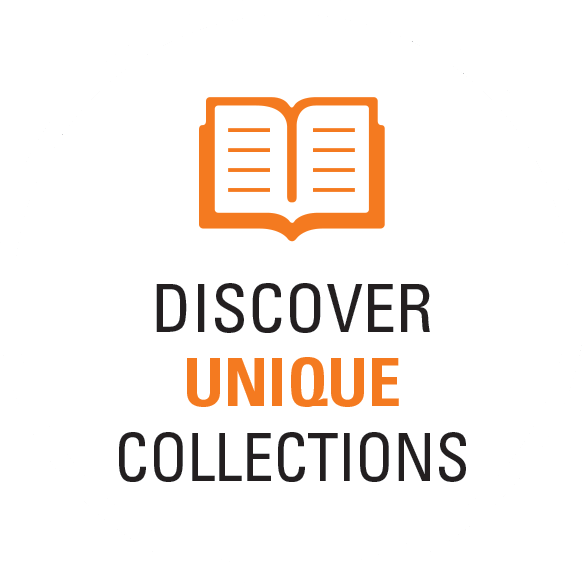
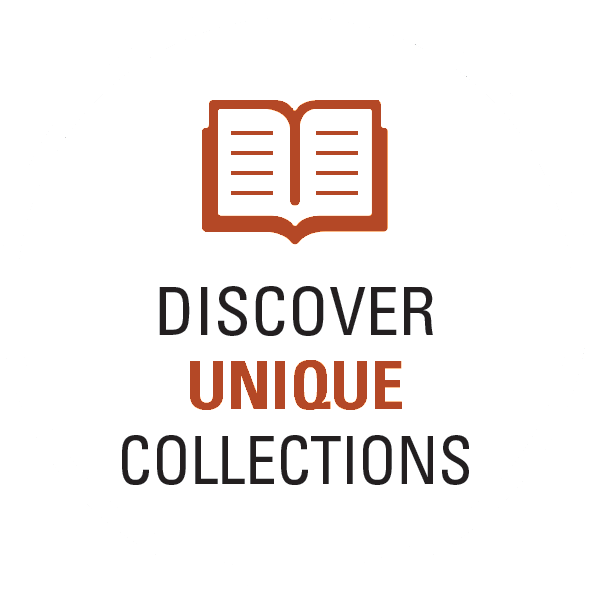
Change orange for readability

Changed region(s): [[0.1856, 0.4631, 0.8041, 0.8336], [0.3402, 0.1544, 0.6804, 0.4322]]

diff --git a/css/style-min.css b/css/style-min.css
@@ -1,1 +1,1 @@
-html{margin:0;padding:0;background-color:#F5F5F5;font-size:14pt;font-family:"Helvetica Neue",Helvetica,Arial,sans-serif;color:#000}body{margin:0;padding:0;background-color:#F5F5F5;max-width:100%}a{color:#000;-webkit-transition:all .5s;transition:all .5s}a:hover{color:#F57920}article table td{padding: .357142857142571em}header{border-top: .2857142857142857em solid #FFB652;background-color:#F57920;margin-top:0;width:100%}iframe{margin-top:10px;height:19.64285714285714em;width:1px;min-width:100%;*width:100%}img{max-width:100%}.aboutMenu{text-align:center;width:100%;display:none;vertical-align:middle}.aboutMenu ul li a{color:#FFF;font-size:1.5em;-webkit-transition: .5s all;transition: .5s all}.aboutMenu ul li a:hover{color:#000;text-decoration:none}.brand-nav{margin-top:.5em;white-space:nowrap}.circleButtons{background-image:url('../images/circle_background.png');background-size:cover;background-position:right center;background-repeat:no-repeat;height:14.5em}.collectionsMenu{text-align:center;width:100%;display:none;vertical-align:middle}.collectionsMenu ul li a{color:#FFF;font-size:1.5em;-webkit-transition: .5s all;transition: .5s all}.collectionsMenu ul li a:hover{color:#000;text-decoration:none}.footer{margin:0;padding:0;padding-top:1.071428571428571em;background-color:#F4F5F5;position:relative;bottom:0;width:100%}.footer a{color:#000;text-decoration:none;-webkit-transition: .5s all;transition: .5s all}.footer a:hover{color:#F57920;text-decoration:none}.footer a:active{color:#000}.footer a:focus{color:#F57920}.footer a:visted{color:#000}.footer ul{list-style:none;padding:0}.footer ul li{list-style:none}.footer1{text-align:left;width:25%}.footer2{width:25%}.footer3{width:25%}.footer4{text-align:right;width:25%}.helpMenu{text-align:center;width:100%;display:none;vertical-align:middle}.helpMenu ul li a{color:#FFF;font-size:1.5em;-webkit-transition: .5s all;transition: .5s all}.helpMenu ul li a:hover{color:#000;text-decoration:none}.hiddenMenu{background-color:#F57920;margin:auto;margin-top:1.428571428571429em;padding-top: .5em;height:100%;display:none;z-index:2}.hiddenMenu ul li{list-style:none;margin:1em;text-align:center;display:inline;white-space:nowrap}.image-block{background-color:#000;border-left: .3571428571428571em solid #FFF;height:14.5em;text-align:center}.image-block img{max-width:100%}.layout-content{margin-top:-35.71428571428571em;z-index:1}.libBackground{background-color:#DEDEDE;height:39.28571428571429em;z-index:-1}.libButtons{padding:0;font-size:1.85em;text-align:left;box-sizing:border-box;color:#FFF}.libButtons a{color:white}.libButtons a:hover{color:white}.libButtons a:visited{color:white}.libButtons .button{height:5.571428571428571em;width:97.5%;margin-right:2px;float:right}.libButtons h2{margin-top: .3076923076923077em;padding-left: .25em;text-shadow:2px 2px #000;position:absolute}.libButtons .button1{background-image:url('../assets/Books.jpg');background-size:100%;margin-bottom:2px}.libButtons .button2{background-image:url('../assets/helios-morning-fog.jpg');background-size:100%;margin-top:2px}.libButtons table{border:none;margin:0;width:99.75%}.libButtons tr td{border-left: .2em solid #FFF;height:5.357142857142857em;vertical-align:middle;border-top: .5em solid #FFF}.libButtons tr:first-child{background-color:#F2D653;color:#000;margin-bottom: .5em}.libButtons tr:nth-child(2){background-color:#BD4F19;color:#FFF}.libSearch{height:293px;border:1px solid #000;background-image:url('../assets/niclib_doors.jpg');background-size:cover;background-position:center center;background-repeat:none;width:74.47%;clear:both;padding:0}.mainContent{height:100%}.mainContent article{width:93%;margin: .7142857142857143em auto}.mainContent .faqfield{background-color:#000}.mainContent h1{text-align:center;font-weight:bold}.mobile-menu{display:none}.mobile-menu button{margin-bottom: .5714285714285714em;background-color:#000;width:40px}.NicLib-Head{margin: .2857142857142857em auto;font-weight:bold;font-size:2em;color:#000;clear:both}.NicLib-Head img{max-width:32.93650793650794%;float:left}.NicLib-Head ul{margin-top:1em;padding-left:15.97005614472863%;background-color:#565656;display:inline;width:100%;box-shadow:0 5px 5px #888}.NicLib-Head ul a{color:#FFF;text-decoration:none;-webkit-transition:all .5s;transition:all .5s}.NicLib-Head ul a:hover{color:#F57920;background:none}.NicLib-Head ul a:focus{background:none}.NicLib-Head ul li{margin:auto 1em;display:inline}.secondaryContent{width:97.5%;margin-left:1.071428571428571em}.secondButtons{margin-top: .3571428571428571em;padding:0;font-size:1.142857142857143em;color:#000;text-align:center;display:inline-block;box-sizing:border-box}.secondButtons a{color:#000;text-decoration:none}.secondButtons a: hover{text-decoration:none}.secondButtons i{font-weight:bold}.secondButtons p{display:inline-block;vertical-align:middle;border-radius:71.42857142857143em;border: .3571428571428571em solid #585858;margin:2.142857142857143em;width:20%;-webkit-transition:all .25s;transition:all .25s;background-color:#FFF;cursor:pointer}.secondButtons p:hover{border-color:#F57920}.secondButtons p strong{color:#F57920}.secondButtons p:first-child{cursor:pointer}.secondButtons p:nth-child(2) img{margin-top:-.2857142857142857em}.servicesMenu{text-align:center;width:100%;display:none;vertical-align:middle}.servicesMenu ul li a{color:#FFF;font-size:1.5em;-webkit-transition: .25s all;transition: .25s all}.servicesMenu ul li a:hover{color:#000;text-decoration:none}.shadow{width:100%;height:1.923076923076923em;background-color:rgba(0,0,0,.25)}.site-content{margin-top:1.785714285714286em;padding: .3571428571428571em;background-color:#FFF;box-shadow:0 10px 15px #888}.small-NicLib-Head{display:none}.univHead{font-weight:bold;color:#FFF;margin-bottom: .375em}.univHead a{color:#FFF;text-decoration:none;-webkit-transition:all .5s;transition:all .5s}.univHead a:hover{color:#000}.univHead img{margin-top:0;float:left}.univHead nav{margin-top: .5em;width:44.6662507797879%;float:right}.univHead ul{text-align:right;list-style:none;display:inline}.univHead nav ul li{margin:auto 1.111111111111111%;list-style:none;display:inline;white-space:nowrap}#hours{font-size:1em;float:left}#hours a{color:#BD4F19}#mobile-nav{background-color:#F57920;color:#FFF;display:none}#mobile-nav a{color:#FFF;text-decoration:none;-webkit-transition:all .5s;transition:all .5s}#mobile-nav a:hover{color:#000}#mobile-nav ul{margin:auto;text-align:center;list-style:none}#mobile-nav ul li{margin:auto 15px;text-align:center;list-style:none;display:inline;white-space:nowrap}@media screen and (max-width: 1454px){.univHead nav{width:49.24346629986245%}}@media screen and (max-width: 1325px){.univHead nav{width:54.0377358490566%}}@media screen and (max-width: 1214px){.univHead nav{width:58.97858319604613%}}@media screen and (min-width: 1200px){.circleButtons{width:70%;margin:1.25em}.image-block{margin:1.25em .3571428571428571em}.libButtons .button{margin: .55em auto}.libSearch{height:317px;width:69.5%;margin:1em 1.5em}}@media screen and (max-width: 1199px){.footer2{display:none}.footer3{width:50%}.image-block{border-left:none}.libSearch{width:97.5%;margin: .3em}.libButtons{margin-top: .5em}.libButtons .button{width:47.75%;margin-left: .3em;float:none;display:inline-block}.libButtons .button1{margin-bottom:0}.libButtons .button2{margin-top:0}.secondButtons{margin-top:.3em;margin: .3em .5em;width:98.25%}.NicLib-Head ul{padding-left:8.34028356964137%}.secondaryContent{width:97.2%}.secondButtons{display:block}.views_slideshow_cycle_teaser_section{left:34%}.univHead nav{width:63.98570151921358%}}@media screen and (max-width: 1037px){.mobile-menu{display:initial;position:static;float:right}.univHead nav{width:3.8572806171649%}.univHead ul{display:none}}@media screen and (max-width: 991px){.image-block{width:98.6%}.libButtons{margin-top: .28557142857142857em;margin-left:-.5%}.libButtons div{width:98.6%;float:none}.libButtons .shadow{width:100%}.libButtons .button{width:97%;height:7.5em}.libButtons .button1{margin-bottom: .28557142857142857em;background-position:0% 20%}.libButtons .button2{background-position:0% 75%}.libButtons table{width:98.61111111111111%}.libButtons tr td{border-left:none}.libSearch{width:97%}.NicLib-Head ul{padding:3px}.NicLib-Head ul li{margin:auto 20px}.secondButtons{width:97.5%;margin-left: .5%}.univHead nave{width:15%;margin-right:1em}.views_slideshow_cycle_teaser_section{left:29%}}@media screen and (max-width: 767px){.footer1{width:100%;text-align:center;margin-bottom:1em}.footer3{width:100%;text-align:center}.footer4{width:100%;text-align:center}#hours{float:none}.libButtons{margin-left: .3%}.libButtons div{width:100%}.libButtons .button{width:98.75%;margin-left: .3%}.libSearch{width:98.75%}.mobile-menu{margin-left:2.142857142857143em;float:none}.NicLib-Head{display:none}.small-NicLib-Head{font-size:1.714285714285714em;display:initial}.small-univHead{display:none}.univHead span{display:none}}@media screen and (max-width: 717px){.circleButtons{background-size:cover;background-position:50% 0%;height:100%}.secondButtons p{padding:2.142857142857143em;width:40%;margin:1.428571428571429em}.secondButtons p:nth-child(2){padding-top:1.428571428571429em}}@media screen and (max-width: 685px){.secondButtons{width:98%}.views_slideshow_cycle_teaser_section{left:27%}}@media screen and (max-width: 608px){.secondButtons{width:97.6%}.views_slideshow_cycle_teaser_section{left:24%}}@media screen and (max-width: 566px){.secondButtons{width:97%}}@media screen and (max-width: 556px){.libButtons{margin-left: .4%}}@media screen and (max-width: 534px){.secondButtons p{width:60%}}@media screen and (max-width: 522px){.mobile-menu{margin-left:1em}.secondButtons{width:96.6%}.univHead img{width:50%}.views_slideshow_cycle_teaser_section{left:21%}}@media screen and (max-width: 488px){.secondButtons{width:96%}.views_slideshow_cycle_teaser_section{left:16%}}@media screen and (max-width: 472px){.brand-nav{padding:0;float:left}.mobile-menu{margin-top:-1.928571428571429em;margin-right:-1.7142857142857143em;padding-right:0;float:right}}@media screen and (max-width: 444px){.secondButtons{width:95.6%}.views_slideshow_cycle_teaser_section{left:15%}}@media screen and (max-width: 436px){.libSearch{width:98%}}@media screen and (max-width: 431px){.libButtons{margin-left: .5%}}@media screen and (max-width: 420px){.views_slideshow_cycle_teaser_section{left:12%}}@media screen and (max-width: 416px){.secondButtons{width:95%}.views_slideshow_cycle_teaser_section{left:10%}}@media screen and (max-width: 385px){.footer1{text-align:center;display:block;width:100%}.footer4{text-align:center;display:block}.secondButtons{width:94.6%}.secondButtons p{width:75%}.views_slideshow_cycle_teaser_section{left:8%}}@media screen and (max-width: 370px){.libButtons .button{height:6em}.secondButtons{width:94%}.secondButtons p{margin:1em}.views_slideshow_cycle_teaser_section{left:5%}}@media screen and (max-width: 357px){.views_slideshow_cycle_teaser_section{left:3.5%}}@media screen and (max-width: 356px){.libButtons{margin-left: .6%}}@media screen and (max-width: 347px){.secondButtons{width:93.6%}.views_slideshow_cycle_teaser_section{left:1.75%}}@media screen and (max-width: 324px){.mobile-menu{margin-right:-1em}.secondButtons{width:93%}.views_slideshow_cycle_teaser_section{left:0}}@media screen and (max-width: 310px){.libSearch{height:315px}.secondButtons{width:92%}.secondButtons p{margin: .7142857142857143em}}
+html{margin:0;padding:0;background-color:#F5F5F5;font-size:14pt;font-family:"Helvetica Neue",Helvetica,Arial,sans-serif;color:#000}body{margin:0;padding:0;background-color:#F5F5F5;max-width:100%}a{color:#000;-webkit-transition:all .5s;transition:all .5s}a:hover{color:#B44723}article table td{padding: .357142857142571em}header{border-top: .2857142857142857em solid #595959;background-color:#B44723;margin-top:0;width:100%}iframe{margin-top:10px;height:19.64285714285714em;width:1px;min-width:100%;*width:100%}img{max-width:100%}.aboutMenu{text-align:center;width:100%;display:none;vertical-align:middle}.aboutMenu ul li a{color:#FFF;font-size:1.5em;-webkit-transition: .5s all;transition: .5s all}.aboutMenu ul li a:hover{color:#000;text-decoration:none}.brand-nav{margin-top:.5em;white-space:nowrap}.circleButtons{background-image:url('../images/circle_background.png');background-size:cover;background-position:right center;background-repeat:no-repeat;height:14.5em}.collectionsMenu{text-align:center;width:100%;display:none;vertical-align:middle}.collectionsMenu ul li a{color:#FFF;font-size:1.5em;-webkit-transition: .5s all;transition: .5s all}.collectionsMenu ul li a:hover{color:#000;text-decoration:none}.footer{margin:0;padding:0;padding-top:1.071428571428571em;background-color:#F4F5F5;position:relative;bottom:0;width:100%}.footer a{color:#000;text-decoration:none;-webkit-transition: .5s all;transition: .5s all}.footer a:hover{color:#B44723;text-decoration:none}.footer a:active{color:#000}.footer a:focus{color:#B44723}.footer a:visted{color:#000}.footer ul{list-style:none;padding:0}.footer ul li{list-style:none}.footer1{text-align:left;width:25%}.footer2{width:25%}.footer3{width:25%}.footer4{text-align:right;width:25%}.helpMenu{text-align:center;width:100%;display:none;vertical-align:middle}.helpMenu ul li a{color:#FFF;font-size:1.5em;-webkit-transition: .5s all;transition: .5s all}.helpMenu ul li a:hover{color:#000;text-decoration:none}.hiddenMenu{background-color:#B44723;margin:auto;margin-top:1.428571428571429em;padding-top: .5em;height:100%;display:none;z-index:2}.hiddenMenu ul li{list-style:none;margin:1em;text-align:center;display:inline;white-space:nowrap}.image-block{background-color:#000;border-left: .3571428571428571em solid #FFF;height:14.5em;text-align:center}.image-block img{max-width:100%}.layout-content{margin-top:-35.71428571428571em;z-index:1}.libBackground{background-color:#DEDEDE;height:39.28571428571429em;z-index:-1}.libButtons{padding:0;font-size:1.85em;text-align:left;box-sizing:border-box;color:#FFF}.libButtons a{color:white}.libButtons a:hover{color:white}.libButtons a:visited{color:white}.libButtons .button{height:5.571428571428571em;width:97.5%;margin-right:2px;float:right}.libButtons h2{margin-top: .3076923076923077em;padding-left: .25em;text-shadow:2px 2px #000;position:absolute}.libButtons .button1{background-image:url('../assets/Books.jpg');background-size:100%;margin-bottom:2px}.libButtons .button2{background-image:url('../assets/helios-morning-fog.jpg');background-size:100%;margin-top:2px}.libButtons table{border:none;margin:0;width:99.75%}.libButtons tr td{border-left: .2em solid #FFF;height:5.357142857142857em;vertical-align:middle;border-top: .5em solid #FFF}.libButtons tr:first-child{background-color:#F2D653;color:#000;margin-bottom: .5em}.libButtons tr:nth-child(2){background-color:#BD4F19;color:#FFF}.libSearch{height:293px;border:1px solid #000;background-image:url('../assets/niclib_doors.jpg');background-size:cover;background-position:center center;background-repeat:none;width:74.47%;clear:both;padding:0}.mainContent{height:100%}.mainContent article{width:93%;margin: .7142857142857143em auto}.mainContent .faqfield{background-color:#000}.mainContent h1{text-align:center;font-weight:bold}.mainContent2{width:95%;margin:auto}.mainContent2 ol li h3 a{text-decoration:underline}.mobile-menu{display:none}.mobile-menu button{margin-bottom: .5714285714285714em;background-color:#000;width:40px}.NicLib-Head{margin: .2857142857142857em auto;font-weight:bold;font-size:2em;color:#000;clear:both}.NicLib-Head img{max-width:32.93650793650794%;float:left}.NicLib-Head ul{margin-top:1em;padding-left:15.97005614472863%;background-color:#595959;display:inline;width:100%;box-shadow:0 5px 5px #888}.NicLib-Head ul a{color:#FFF;text-decoration:none;-webkit-transition:all .5s;transition:all .5s}.NicLib-Head ul a:hover{color:#B44723;background:none}.NicLib-Head ul a:focus{background:none}.NicLib-Head ul li{margin:auto 1em;display:inline}.secondaryContent{width:97.5%;margin-left:1.071428571428571em}.secondButtons{margin-top: .3571428571428571em;padding:0;font-size:1.142857142857143em;color:#000;text-align:center;display:inline-block;box-sizing:border-box}.secondButtons a{color:#000;text-decoration:none}.secondButtons a: hover{text-decoration:none}.secondButtons i{font-weight:bold}.secondButtons p{display:inline-block;vertical-align:middle;border-radius:71.42857142857143em;border: .3571428571428571em solid #595959;margin:2.142857142857143em;width:20%;-webkit-transition:all .25s;transition:all .25s;background-color:#FFF;cursor:pointer}.secondButtons p:hover{border-color:#B44723}.secondButtons p strong{color:#B44723}.secondButtons p:first-child{cursor:pointer}.secondButtons p:nth-child(2) img{margin-top:-.2857142857142857em}.servicesMenu{text-align:center;width:100%;display:none;vertical-align:middle}.servicesMenu ul li a{color:#FFF;font-size:1.5em;-webkit-transition: .25s all;transition: .25s all}.servicesMenu ul li a:hover{color:#000;text-decoration:none}.shadow{width:100%;height:1.923076923076923em;background-color:rgba(0,0,0,.25)}.site-content{margin-top:1.785714285714286em;padding: .3571428571428571em;background-color:#FFF;box-shadow:0 10px 15px #888}.small-NicLib-Head{display:none}.univHead{font-weight:bold;color:#FFF;margin-bottom: .375em}.univHead a{color:#FFF;text-decoration:none;-webkit-transition:all .5s;transition:all .5s}.univHead a:hover{color:#000}.univHead img{margin-top:0;float:left}.univHead nav{margin-top: .5em;width:44.6662507797879%;float:right}.univHead ul{text-align:right;list-style:none;display:inline}.univHead nav ul li{margin:auto 1.111111111111111%;list-style:none;display:inline;white-space:nowrap}#hours{font-size:1em;float:left}#hours a{color:#BD4F19}#mobile-nav{background-color:#B44723;color:#FFF;display:none}#mobile-nav a{color:#FFF;text-decoration:none;-webkit-transition:all .5s;transition:all .5s}#mobile-nav a:hover{color:#000}#mobile-nav ul{margin:auto;text-align:center;list-style:none}#mobile-nav ul li{margin:auto 15px;text-align:center;list-style:none;display:inline;white-space:nowrap}@media screen and (max-width: 1454px){.univHead nav{width:49.24346629986245%}}@media screen and (max-width: 1325px){.univHead nav{width:54.0377358490566%}}@media screen and (max-width: 1214px){.univHead nav{width:58.97858319604613%}}@media screen and (min-width: 1200px){.circleButtons{width:70%;margin:1.25em}.image-block{margin:1.25em .3571428571428571em}.libButtons .button{margin: .55em auto}.libSearch{height:317px;width:69.5%;margin:1em 1.5em}}@media screen and (max-width: 1199px){.footer2{display:none}.footer3{width:50%}.image-block{border-left:none}.libSearch{width:97.5%;margin: .3em}.libButtons{margin-top: .5em}.libButtons .button{width:47.75%;margin-left: .3em;float:none;display:inline-block}.libButtons .button1{margin-bottom:0}.libButtons .button2{margin-top:0}.secondButtons{margin-top:.3em;margin: .3em .5em;width:98.25%}.NicLib-Head ul{padding-left:8.34028356964137%}.secondaryContent{width:97.2%}.secondButtons{display:block}.views_slideshow_cycle_teaser_section{left:34%}.univHead nav{width:63.98570151921358%}}@media screen and (max-width: 1037px){.mobile-menu{display:initial;position:static;float:right}.univHead nav{width:3.8572806171649%}.univHead ul{display:none}}@media screen and (max-width: 991px){.image-block{width:98.6%}.libButtons{margin-top: .28557142857142857em;margin-left:-.5%}.libButtons div{width:98.6%;float:none}.libButtons .shadow{width:100%}.libButtons .button{width:97%;height:7.5em}.libButtons .button1{margin-bottom: .28557142857142857em;background-position:0% 20%}.libButtons .button2{background-position:0% 75%}.libButtons table{width:98.61111111111111%}.libButtons tr td{border-left:none}.libSearch{width:97%}.NicLib-Head ul{padding:3px}.NicLib-Head ul li{margin:auto 20px}.secondButtons{width:97.5%;margin-left: .5%}.univHead nave{width:15%;margin-right:1em}.views_slideshow_cycle_teaser_section{left:29%}}@media screen and (max-width: 767px){.footer1{width:100%;text-align:center;margin-bottom:1em}.footer3{width:100%;text-align:center}.footer4{width:100%;text-align:center}#hours{float:none}.libButtons{margin-left: .3%}.libButtons div{width:100%}.libButtons .button{width:98.75%;margin-left: .3%}.libSearch{width:98.75%}.mobile-menu{margin-left:2.142857142857143em;float:none}.NicLib-Head{display:none}.small-NicLib-Head{font-size:1.714285714285714em;display:initial}.small-univHead{display:none}.univHead span{display:none}}@media screen and (max-width: 717px){.circleButtons{background-size:cover;background-position:50% 0%;height:100%}.secondButtons p{padding:2.142857142857143em;width:40%;margin:1.428571428571429em}.secondButtons p:nth-child(2){padding-top:1.428571428571429em}}@media screen and (max-width: 685px){.secondButtons{width:98%}.views_slideshow_cycle_teaser_section{left:27%}}@media screen and (max-width: 608px){.secondButtons{width:97.6%}.views_slideshow_cycle_teaser_section{left:24%}}@media screen and (max-width: 566px){.secondButtons{width:97%}}@media screen and (max-width: 556px){.libButtons{margin-left: .4%}}@media screen and (max-width: 534px){.secondButtons p{width:60%}}@media screen and (max-width: 522px){.mobile-menu{margin-left:1em}.secondButtons{width:96.6%}.univHead img{width:50%}.views_slideshow_cycle_teaser_section{left:21%}}@media screen and (max-width: 488px){.secondButtons{width:96%}.views_slideshow_cycle_teaser_section{left:16%}}@media screen and (max-width: 472px){.brand-nav{padding:0;float:left}.mobile-menu{margin-top:-1.928571428571429em;margin-right:-1.7142857142857143em;padding-right:0;float:right}}@media screen and (max-width: 444px){.secondButtons{width:95.6%}.views_slideshow_cycle_teaser_section{left:15%}}@media screen and (max-width: 436px){.libSearch{width:98%}}@media screen and (max-width: 431px){.libButtons{margin-left: .5%}}@media screen and (max-width: 420px){.views_slideshow_cycle_teaser_section{left:12%}}@media screen and (max-width: 416px){.secondButtons{width:95%}.views_slideshow_cycle_teaser_section{left:10%}}@media screen and (max-width: 385px){.footer1{text-align:center;display:block;width:100%}.footer4{text-align:center;display:block}.secondButtons{width:94.6%}.secondButtons p{width:75%}.views_slideshow_cycle_teaser_section{left:8%}}@media screen and (max-width: 370px){.libButtons .button{height:6em}.secondButtons{width:94%}.secondButtons p{margin:1em}.views_slideshow_cycle_teaser_section{left:5%}}@media screen and (max-width: 357px){.views_slideshow_cycle_teaser_section{left:3.5%}}@media screen and (max-width: 356px){.libButtons{margin-left: .6%}}@media screen and (max-width: 347px){.secondButtons{width:93.6%}.views_slideshow_cycle_teaser_section{left:1.75%}}@media screen and (max-width: 324px){.mobile-menu{margin-right:-1em}.secondButtons{width:93%}.views_slideshow_cycle_teaser_section{left:0}}@media screen and (max-width: 310px){.libSearch{height:315px}.secondButtons{width:92%}.secondButtons p{margin: .7142857142857143em}}

diff --git a/css/search-min.css b/css/search-min.css
@@ -1,1 +1,1 @@
-#search-wrapper{text-align:center;position:relative;max-width:100%;margin:auto;width:100%;height:100%;font-family:"Source Sans Pro","Myriad Pro","Helvetica Neue",Helvetica,Arial,sans-serif;letter-spacing:0.02rem;text-shadow:1px 1px #000;background-color:rgba(0,0,0,.4);color:#000;padding:0 1.071428571428571em}.tabs{-webkit-box-sizing:border-box;-moz-box-sizing:border-box;box-sizing:border-box;display:inline-block;width:100%;margin:2.142857142857143em auto;padding:0px auto;text-align:center;height:92px;top:0;vertical-align:middle;color:#FFF}.tab-links:after{display:block;clear:both;content:''}.tab-links h2{margin:0px 5px;list-style:none;display:inline-block;text-decoration:none;color:#FFF}.tab-links a{padding:9px 15px;display:inline-block;border-radius:3px 3px 0px 0px;font-size:16px;font-weight:600;transition:all linear 0.15s;text-decoration:none;color:rgb(0, 0, 0)}.tab-links a.selected h2{color:#F57920}.tab-links h2{font-size:2.4em}.tab-label{font-size:16px;text-decoration:none;margin:5px 0;font-family:"Source Sans Pro","Myriad Pro","Helvetica Neue",Helvetica,Arial,sans-serif;color:#FFF}.tab-content{border-radius:3px;text-align:center;margin-top:50px}.tab{display:none}.tab.active{display:block}.searchTerm{position:relative}.searchTerm input{color:#000}#search h3{font-size:13pt;width:95%;margin:5px auto;text-align:left;font-family:sans-serif;font-weight:bold}input.searchbox{display:inline;-webkit-appearance:none;vertical-align:middle;-webkit-box-sizing:border-box;-moz-box-sizing:border-box;box-sizing:border-box;height:40px;width:70%;padding-left: .6rem;padding-right:8px;font-size:16px;font-size:1.6rem;margin:10px auto;border:0;outline:2px solid #F57920;float:left}button.headersubmit{display:inline;-webkit-appearance:none;height:40px;width:44px;margin-top:10px;padding:0;border:0;background-color:#F57920;color:#fff;font-size:2.2em;font-family:'FontAwesome',sans-serif;cursor:pointer;-webkit-border-radius:0;-moz-border-radius:0;border-radius:0;float:right}select.dropdown-menu{display:inline;-webkit-appearance:none;vertical-align:middle;-webkit-box-sizing:border-box;-moz-box-sizing:border-box;box-sizing:border-box;width:20%;background-color:#FFF;padding:5px;font-size:14px;border:2px solid #F57920;border-radius:0;height:40px;margin:10px;margin-left:591px;cursor:pointer;font-family:"Source Sans Pro","Myriad Pro","Helvetica Neue",Helvetica,Arial,sans-serif;color:#000}a#advanced-search{float:right;line-height:0;color:#000;text-decoration:underline;font-weight:bold;font-size:11pt;text-align:right;font-family:sans-serif}.tab-links{margin-top:-1em}#realquery{font-size:12pt}.windowForm{margin-bottom:0}@media screen and (min-width: 1200px){select.dropdown-menu{margin-left:546px}}@media screen and (max-width: 1199px){select.dropdown-menu{margin-left:640px}input.searchbox{width:69%}}@media screen and (max-width: 991px){select.dropdown-menu{display:none}input.searchbox{width:90%}}@media screen and (max-width: 583px){.tab-content table{display:none}}@media screen and (max-width: 540px){input.searchbox{width:87%}}@media screen and (max-width: 494px){.tab-links h2{margin:0}}@media screen and (max-width: 487px){input.searchbox{width:80%}.tab-links{font-size:0em;margin-left:-2px}.tab-links h2{margin:0}.tab-content p{display:none}}@media screen and (max-width: 441px){.tab-links a{padding:9px 10px}}@media screen and (max-width: 436px){.tab-links h2{margin:-5px}input.searchbox{width:83%}}@media screen and (max-width: 395px){.tab-links h2{margin:-8px}}@media screen and (max-width: 353px){input.searchbox{width:80%}}@media screen and (max-width: 335px){.tab-content{margin-top:-8px}}@media screen and (max-width: 314px){input.searchbox{width:75%}}
+#search-wrapper{text-align:center;position:relative;max-width:100%;margin:auto;width:100%;height:100%;font-family:"Source Sans Pro","Myriad Pro","Helvetica Neue",Helvetica,Arial,sans-serif;letter-spacing:0.02rem;text-shadow:1px 1px #000;background-color:rgba(0,0,0,.4);color:#000;padding:0 1.071428571428571em}.tabs{-webkit-box-sizing:border-box;-moz-box-sizing:border-box;box-sizing:border-box;display:inline-block;width:100%;margin:2.142857142857143em auto;padding:0px auto;text-align:center;height:92px;top:0;vertical-align:middle;color:#FFF}.tab-links:after{display:block;clear:both;content:''}.tab-links h2{margin:0px 5px;list-style:none;display:inline-block;text-decoration:none;color:#FFF}.tab-links a{padding:9px 15px;display:inline-block;border-radius:3px 3px 0px 0px;font-size:16px;font-weight:600;transition:all linear 0.15s;text-decoration:none;color:rgb(0, 0, 0)}.tab-links a.selected h2{color:#B44723}.tab-links h2{font-size:2.4em}.tab-label{font-size:16px;text-decoration:none;margin:5px 0;font-family:"Source Sans Pro","Myriad Pro","Helvetica Neue",Helvetica,Arial,sans-serif;color:#FFF}.tab-content{border-radius:3px;text-align:center;margin-top:50px}.tab{display:none}.tab.active{display:block}.searchTerm{position:relative}.searchTerm input{color:#000}#search h3{font-size:13pt;width:95%;margin:5px auto;text-align:left;font-family:sans-serif;font-weight:bold}input.searchbox{display:inline;-webkit-appearance:none;vertical-align:middle;-webkit-box-sizing:border-box;-moz-box-sizing:border-box;box-sizing:border-box;height:40px;width:70%;padding-left: .6rem;padding-right:8px;font-size:16px;font-size:1.6rem;margin:10px auto;border:0;outline:2px solid #B44723;float:left}button.headersubmit{display:inline;-webkit-appearance:none;height:40px;width:44px;margin-top:10px;padding:0;border:0;background-color:#B44723;color:#fff;font-size:2.2em;font-family:'FontAwesome',sans-serif;cursor:pointer;-webkit-border-radius:0;-moz-border-radius:0;border-radius:0;float:right}select.dropdown-menu{display:inline;-webkit-appearance:none;vertical-align:middle;-webkit-box-sizing:border-box;-moz-box-sizing:border-box;box-sizing:border-box;width:20%;background-color:#FFF;padding:5px;font-size:14px;border:2px solid #B44723;border-radius:0;height:40px;margin:10px;margin-left:591px;cursor:pointer;font-family:"Source Sans Pro","Myriad Pro","Helvetica Neue",Helvetica,Arial,sans-serif;color:#000}a#advanced-search{float:right;line-height:0;color:#000;text-decoration:underline;font-weight:bold;font-size:11pt;text-align:right;font-family:sans-serif}.tab-links{margin-top:-1em}#realquery{font-size:12pt}.windowForm{margin-bottom:0}@media screen and (min-width: 1200px){select.dropdown-menu{margin-left:546px}}@media screen and (max-width: 1199px){select.dropdown-menu{margin-left:640px}input.searchbox{width:69%}}@media screen and (max-width: 991px){select.dropdown-menu{display:none}input.searchbox{width:90%}}@media screen and (max-width: 583px){.tab-content table{display:none}}@media screen and (max-width: 540px){input.searchbox{width:87%}}@media screen and (max-width: 494px){.tab-links h2{margin:0}}@media screen and (max-width: 487px){input.searchbox{width:80%}.tab-links{font-size:0em;margin-left:-2px}.tab-links h2{margin:0}.tab-content p{display:none}}@media screen and (max-width: 441px){.tab-links a{padding:9px 10px}}@media screen and (max-width: 436px){.tab-links h2{margin:-5px}input.searchbox{width:83%}}@media screen and (max-width: 395px){.tab-links h2{margin:-8px}}@media screen and (max-width: 353px){input.searchbox{width:80%}}@media screen and (max-width: 335px){.tab-content{margin-top:-8px}}@media screen and (max-width: 314px){input.searchbox{width:75%}}

diff --git a/css/style.css b/css/style.css
@@ -21,7 +21,7 @@ a {
 }
 
 a:hover{
-	color: #F57920;
+	color: #B44723;
 }
 
 article table td {
@@ -29,8 +29,8 @@ article table td {
 }
 
 header{
-	border-top: .2857142857142857em /* 4/14 */ solid #FFB652;
-	background-color: #F57920;
+	border-top: .2857142857142857em /* 4/14 */ solid #595959;
+	background-color: #B44723;
 	margin-top: 0;
  	width: 100%;
 }
@@ -118,7 +118,7 @@ img{
 }
 
 .footer a:hover{
-	color: #F57920;
+	color: #B44723;
 	text-decoration: none;
 }
 
@@ -127,7 +127,7 @@ img{
 }
 
 .footer a:focus{
-	color: #F57920;
+	color: #B44723;
 }
 
 .footer a:visted{
@@ -181,7 +181,7 @@ img{
 }
 
 .hiddenMenu{
-	background-color: #F57920;
+	background-color: #B44723;
 	margin: auto;
 	margin-top: 1.428571428571429em; /* 20/14 */
 	padding-top: .5em;
@@ -358,7 +358,7 @@ img{
 	margin-top: 1em;
 	/* Padding when FYE QR Code is inactive */
 	padding-left: 15.97005614472863%; /* 256/1603 */
-	background-color: #565656;
+	background-color: #595959;
 	display: inline;
 	width: 100%;
 	box-shadow: 0 5px 5px #888888;
@@ -372,7 +372,7 @@ img{
 }
  
 .NicLib-Head ul a:hover{
-	color: #F57920;
+	color: #B44723;
 	background: none;
 }
 
@@ -418,7 +418,7 @@ img{
 	display: inline-block;
 	vertical-align: middle;
 	border-radius: 71.42857142857143em;
-	border: .3571428571428571em /* 5/14 */ solid #585858;
+	border: .3571428571428571em /* 5/14 */ solid #595959;
 	margin: 2.142857142857143em; /* 30/14 */
 	width: 20%;
 	-webkit-transition: all .25s;
@@ -428,11 +428,11 @@ img{
 }
 
 .secondButtons p:hover{
-	border-color: #F57920;
+	border-color: #B44723;
 }
 
 .secondButtons p strong{
-	color: #F57920;
+	color: #B44723;
 }
 
 .secondButtons p:first-child{
@@ -539,7 +539,7 @@ img{
 }
 
 #mobile-nav{
-	background-color: #F57920;
+	background-color: #B44723;
 	color: #FFFFFF;
 	display: none;
 }

diff --git a/assets/theme.css b/assets/theme.css
@@ -52,7 +52,7 @@
 .ui-widget-content .ui-state-default,
 .ui-widget-header .ui-state-default {
 	border: 1px solid #d3d3d3/*{borderColorDefault}*/;
-	background: #F59720;/*{bgColorDefault}*/ /*url("images/ui-bg_glass_75_e6e6e6_1x400.png")/*{bgImgUrlDefault}*/ 50%/*{bgDefaultXPos}*/ 50%/*{bgDefaultYPos}*/ repeat-x/*{bgDefaultRepeat}*/;
+	background: #B44723;/*{bgColorDefault}*/ /*url("images/ui-bg_glass_75_e6e6e6_1x400.png")/*{bgImgUrlDefault}*/ 50%/*{bgDefaultXPos}*/ 50%/*{bgDefaultYPos}*/ repeat-x/*{bgDefaultRepeat}*/;
 	font-weight: bold;
 	color: #FFFFFF/*{fcDefault}*/;
 }
@@ -88,7 +88,7 @@
 .ui-widget-content .ui-state-active,
 .ui-widget-header .ui-state-active {
 	border: 1px solid #aaaaaa/*{borderColorActive}*/;
-	background: #F59720/*{bgColorActive}*/ /*url("images/ui-bg_glass_65_ffffff_1x400.png")/*{bgImgUrlActive}*/ 50%/*{bgActiveXPos}*/ 50%/*{bgActiveYPos}*/ repeat-x/*{bgActiveRepeat}*/;
+	background: #B44723/*{bgColorActive}*/ /*url("images/ui-bg_glass_65_ffffff_1x400.png")/*{bgImgUrlActive}*/ 50%/*{bgActiveXPos}*/ 50%/*{bgActiveYPos}*/ repeat-x/*{bgActiveRepeat}*/;
 	font-weight: normal/*{fwDefault}*/;
 	color: #FFFFFF/*{fcActive}*/;
 }

diff --git a/css/search.css b/css/search.css
@@ -59,7 +59,7 @@
 		}
 	
 		.tab-links a.selected h2 {
-		   color: #F57920; /*same as the buttons*/
+		   color: #B44723; /*same as the buttons*/
 		}
 		
         .tab-links h2 {
@@ -122,7 +122,7 @@
 			font-size: 1.6rem;
 			margin: 10px auto;
 			border: 0;
-			outline: 2px solid #F57920;
+			outline: 2px solid #B44723;
 			float:left;
 		}
     
@@ -135,7 +135,7 @@
 			margin-top: 10px;
 			padding:0;
 			border: 0;
-			background-color: #F57920;
+			background-color: #B44723;
 			color: #ffffff;
 			font-size: 2.2em;
 			font-family: 'FontAwesome', sans-serif;
@@ -157,7 +157,7 @@
         background-color: #FFFFFF;
         padding: 5px;
         font-size: 14px;
-        border: 2px solid #F57920;
+        border: 2px solid #B44723;
         border-radius: 0;
         height: 40px;
 		margin: 10px;
